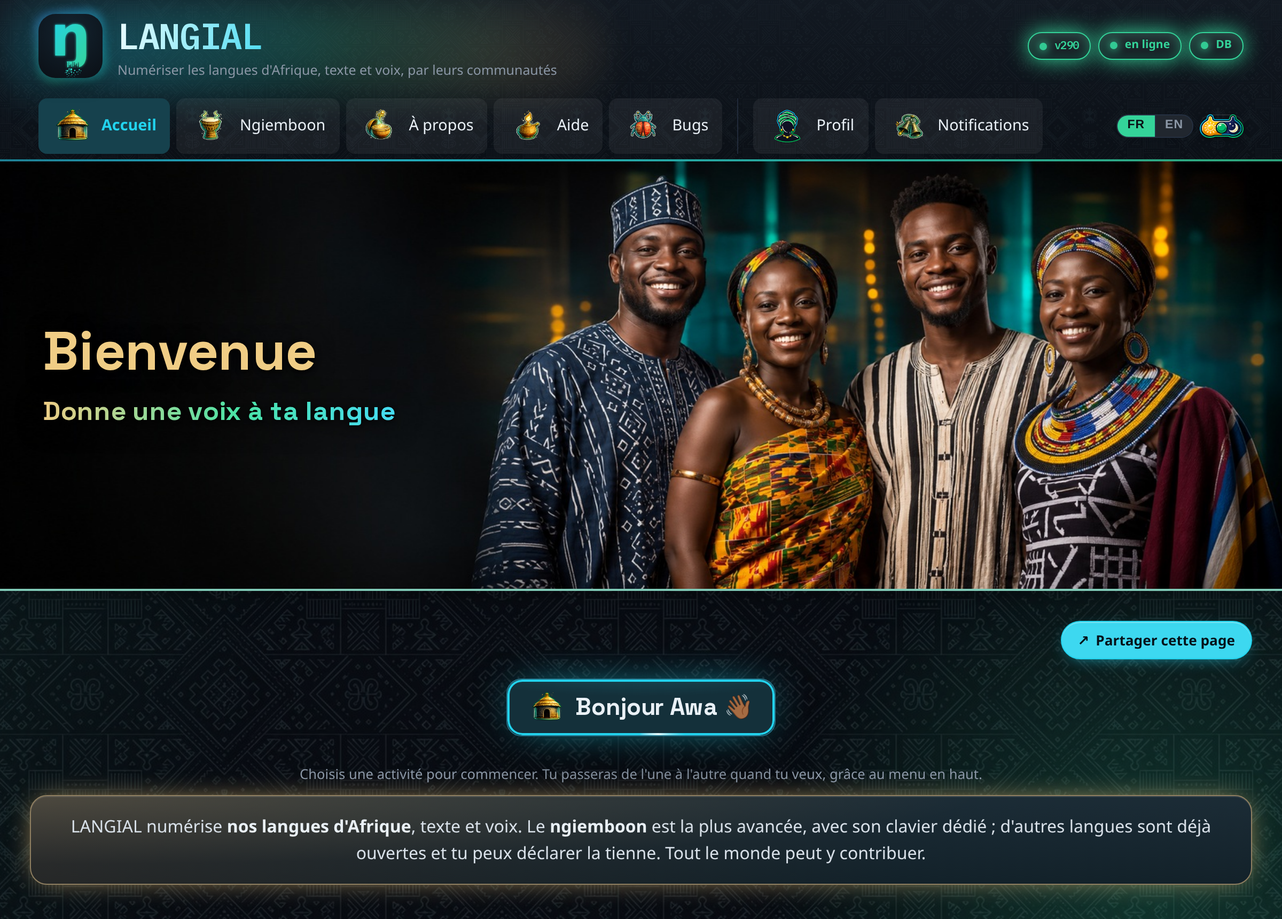
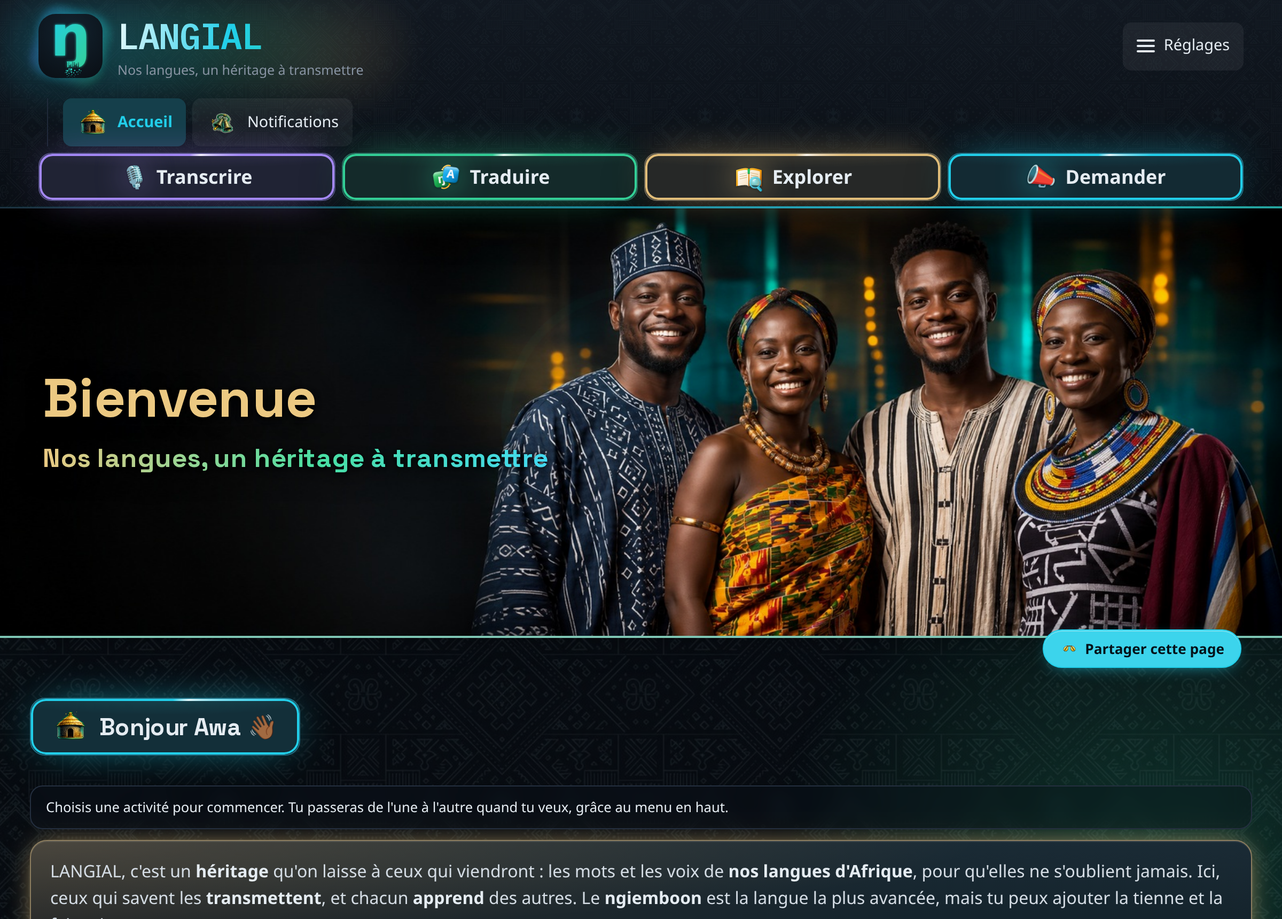
docs(readme): régénère toutes les captures d'écran et met à jour le texte pour refléter l'interface actuelle
Les captures dataient d'avant plusieurs refontes de cette session (header
réorganisé : Réglages remonté à droite du logo, « Créer mon profil » dans le
header ; icône de partage africanisée ; etc.) et certaines étaient tout
simplement fausses par rapport à l'app réelle : le profil de démonstration du
script de capture n'avait pas les champs village/langue du père et de la mère
(ajoutés cette session), donc profileComplete() le rejetait et affichait le
popup « Crée ton profil » à la place des vraies pages Traduire/Transcrire.

Corrige aussi trois cadrages qui manquaient leur cible (bandeau « à traduire »,
centre de notifications, grille des langues) : le padding de défilement ne
tenait pas compte de la hauteur réelle du header collant, ce qui laissait
l'élément visé caché dessous.

Texte : la phrase disant que le menu du haut permet de changer de langue et de
thème n'est plus vraie (ces réglages ont migré dans le tiroir ☰ Réglages,
introduit cette session) — corrigée. Ajoute une courte mention du profil
(obligatoire, demandé une fois) qui manquait entièrement du document alors que
son bouton est désormais visible sur presque toutes les captures.

diff --git a/README.md b/README.md
@@ -50,7 +50,10 @@ L'application s'organise autour de quatre activités :
 - 📣 &nbsp;**Demander** : solliciter la communauté lorsqu'un mot nous échappe.
 
 Ces quatre portes sont accessibles à tout moment depuis le menu du haut, et l'on passe
-librement de l'une à l'autre.
+librement de l'une à l'autre. Avant de contribuer, un profil se crée en une minute,
+demandé une seule fois : il crédite chaque contribution à son auteur (si celui-ci le
+souhaite), situe sa façon de parler par le village et la langue de ses deux parents, et
+garde la base propre en évitant les doublons d'une même personne.
 
 Les captures qui suivent alternent le **thème sombre** et le **thème clair** :
 l'application propose les deux ambiances, au choix de chacun.
@@ -65,7 +68,9 @@ L'accueil présente les quatre activités comme des portes distinctes, chacune a
 couleur d'identité : le violet pour la transcription, le vert pour la traduction, l'or
 pour l'exploration et le cyan pour la demande. On reconnaît ainsi chaque espace d'un
 coup d'œil, et l'on ouvre celui que l'on veut. Le menu du haut reste présent partout
-pour changer d'activité, de langue ou de thème.
+pour changer d'activité ; un bouton **Réglages** regroupe tout le reste, langue de
+contribution, langue d'interface, thème clair ou sombre, aide et suivi des bugs, pour
+que l'accueil garde l'essentiel sous les yeux.
 
 ### ✍ Traduire, avec un clavier fait pour la langue
 
